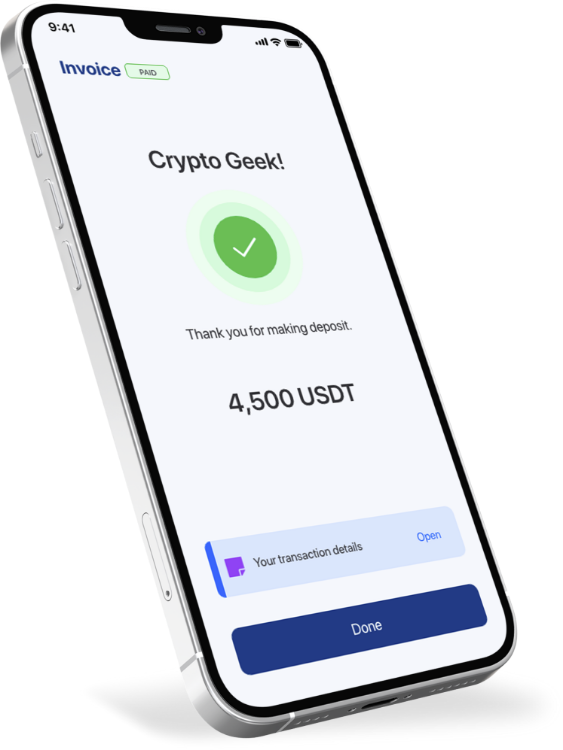
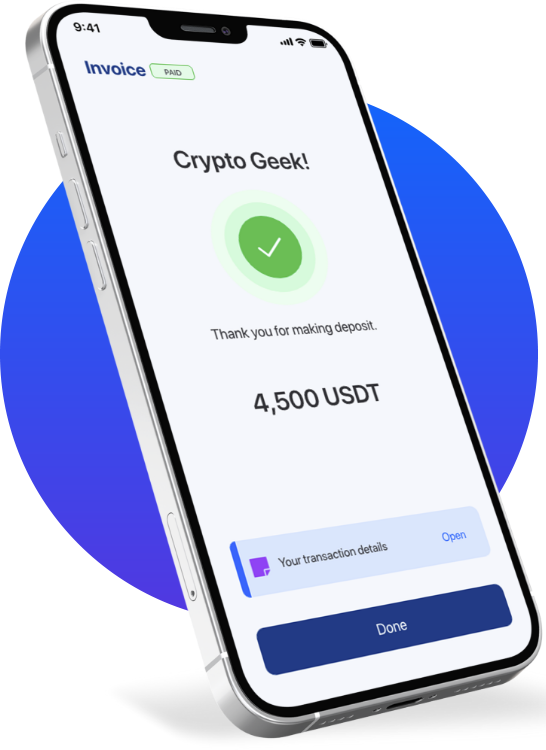
more updates

diff --git a/components/home/HeaderHome.vue b/components/home/HeaderHome.vue
@@ -25,7 +25,10 @@
             <img src="~/assets/img/apple_logo_appstore.svg" alt="Apple Logo" />
             <span> App Store </span>
           </a>
-          <a target="_blank" href="#">
+          <a
+            target="_blank"
+            href="https://play.google.com/store/apps/details?id=com.senexpay.mobile&hl=en&gl=NG"
+          >
             <img
               src="~/assets/img/googleplay_logo_playstore.svg"
               alt="Google Play Logo"
@@ -35,13 +38,16 @@
         </div>
       </div>
       <div data-aos="fade-left" data-aos-once="true" class="header--media">
-        <div class="img--left">
-          <img src="~/assets/img/App_home_screen.png" alt="Home screen image" />
+        <div class="img--set">
+          <img src="~/assets/img/app_screen.png" alt="Home screen image" />
         </div>
-        <div class="img--group-right">
+        <!--        <div class="img&#45;&#45;left">
+          <img src="~/assets/img/phone.png" alt="Home screen image" />
+        </div>
+        <div class="img&#45;&#45;group-right">
           <img src="~/assets/img/dashboard_widget1.png" alt="Dash Widget 1" />
           <img src="~/assets/img/dashboard_widget2.png" alt="Dash Widget 2" />
-          <div class="widget--span">
+          <div class="widget&#45;&#45;span">
             <a href="#">
               <svg
                 id="Layer_1"
@@ -170,7 +176,7 @@
               </svg>
             </a>
           </div>
-        </div>
+        </div>-->
       </div>
     </div>
   </header>
@@ -183,6 +189,16 @@ export default {
 </script>
 
 <style lang="scss">
+.header--media {
+  .img--set {
+    width: 100%;
+    img {
+      width: 100%;
+      height: 100%;
+      object-fit: contain;
+    }
+  }
+}
 .st0 {
   filter: url(#Rectangle_979);
 }

diff --git a/components/NavBar.vue b/components/NavBar.vue
@@ -44,8 +44,12 @@
           </li>
         </ul>
         <div class="icon-dropdown country-con">
-          <div class="country-icon">
-            <img :src="selectedCountry.imageSource" alt="country" />
+          <div class="country-icon" :class="{ active: opened }">
+            <img
+              :src="selectedCountry.imageSource"
+              alt="country"
+              @click="openDropdown"
+            />
             <div
               v-for="c in otherCountries()"
               :key="c.code"
@@ -58,7 +62,7 @@
               />
             </div>
           </div>
-          <span class="caret-icon">
+          <span class="caret-icon" @click="openDropdown">
             <svg
               xmlns="http://www.w3.org/2000/svg"
               width="20.905"
@@ -101,7 +105,8 @@ export default {
   data() {
     return {
       countries,
-      appLink: ''
+      appLink: '',
+      opened: false
     }
   },
   computed: {
@@ -117,6 +122,9 @@ export default {
     this.appLink = process.env.APP_URL
   },
   methods: {
+    openDropdown() {
+      this.opened = !this.opened
+    },
     openSide() {
       this.toggleSideBar()
     },

diff --git a/assets/styles/_media.scss b/assets/styles/_media.scss
@@ -222,6 +222,17 @@
   }
 }
 
+@media  (max-width: 767px) {
+  .bottom--sect .container .meta--img .meta--container .country--bubbles {
+    transform: translateY(-50%) translateX(-25%);
+  }
+}
+
+@media  (max-width: 535px) {
+  .bottom--sect .container .meta--img .meta--container .country--bubbles {
+    left: 20%;
+  }
+}
 @media  (max-width: 450px) {
   header .header--content .header--cto {
     & > * {
@@ -265,6 +276,7 @@
           justify-content: flex-end;
           .country--bubbles{
             left: 5%;
+            transform: translateY(-50%) translateX(-5%);
           }
 
           .grad--circ {
@@ -274,6 +286,18 @@
           }
         }
       }
+    }
+  }
+}
+
+
+@media  (max-width: 400px) {
+  .bottom--sect .container .meta--img .meta--container .country--bubbles {
+    width: 170px;
+  }
+  .getting--crypto .right--card .event--card .card--base h1 {
+    br {
+      display: none;
     }
   }
 }

diff --git a/components/home/GettingCrypto.vue b/components/home/GettingCrypto.vue
@@ -10,7 +10,11 @@
           cryptocurrency? Worry no more! Join other crypto newbies in the weekly
           session with our Crypto experts.
         </p>
-        <a :href="appLink + '/create-account'" class="dash--btn">
+        <a
+          href="https://www.eventbrite.co.uk/e/talk-to-a-crypto-advisor-tickets-319295329927"
+          target="_blank"
+          class="dash--btn"
+        >
           Register for free</a
         >
       </div>
@@ -27,7 +31,7 @@
               <img src="/img/host1.png" alt="" />
             </div>
             <span class="event--time">Every Friday 8:00-9:00 PM </span>
-            <h1>Teaching you the inner <br />windings of the Crypto market.</h1>
+            <h1>Get expert answers to <br />all your crypto questions.</h1>
             <img class="event--coin" src="/img/bit3d.png" alt="bitcoin 3d" />
           </div>
         </div>

diff --git a/pages/index.vue b/pages/index.vue
@@ -165,7 +165,7 @@
             </p>
           </div>
         </div>
-        <div class="flex">
+        <div class="flex items-center">
           <div class="m-auto lg:mr-0 snx-description-img-con">
             <!-- <img src="/img/secure.svg" /> -->
             <svg
@@ -505,13 +505,13 @@ export default {
     //   'https://static.simpu.co/widgets/v1/simpu-widget.js'
     // )
     // document.head.appendChild(simpuJS)
-    /*if (window !== undefined) {
+    /* if (window !== undefined) {
       const widget = window.Simpu.default.init({
         app_id: '1a75fbd8', // spk__U3zut0PukK4JS8kbRrgc41IlKxwiiW9n8Ccd5bdDyPi8o8bK8C
         public_key: 'spk__U3zut0PukK4JS8kbRrgc41IlKxwiiW9n8Ccd5bdDyPi8o8bK8C'
       })
       widget.render()
-    }*/
+    } */
   },
   methods: {
     scrollToCoin() {

diff --git a/components/home/DashboardDesign.vue b/components/home/DashboardDesign.vue
@@ -8,7 +8,10 @@
           dashboard.
         </p>
         <div class="text-center">
-          <a :href="appLink + '/create-account'" class="dash--btn">
+          <a
+            href="https://play.google.com/store/apps/details?id=com.senexpay.mobile&hl=en&gl=NG"
+            class="dash--btn"
+          >
             Get Started</a
           >
         </div>
@@ -83,7 +86,7 @@ a.dash--btn {
   color: #ffffff;
   transition: all 0.3s ease-in-out;
   background: #1265fb;
-  padding: 15px 50px;
+  padding: 12px 24px;
   border-radius: 8px;
   font-size: 1.8rem;
   text-align: center;

diff --git a/assets/styles/components/_navbar.scss b/assets/styles/components/_navbar.scss
@@ -53,7 +53,7 @@ nav.home--nav {
             }
             &.nav-btn {
               background: #1265FB;
-              padding: 15px 50px;
+              padding: 12px 24px;
               border-radius: 8px;
               &:hover {
                 -webkit-background-clip: unset;
@@ -98,7 +98,7 @@ nav.home--nav {
             margin-top: 5px;
           }
         }
-        &:hover .other-countries {
+       &.active .other-countries {
           display: inline-block;
         }
       }

diff --git a/assets/styles/components/home/_header.scss b/assets/styles/components/home/_header.scss
@@ -106,6 +106,8 @@ header {
         height: 65vh;
         width: 80%;
         position: relative;
+        display: flex;
+        justify-content: center;
         .app--screen {
           height: 100%;
           width: 75%;
@@ -129,7 +131,7 @@ header {
           transform: translateY(-50%) translateX(-20%);;
           z-index: 3;
           left: 0;
-          width: 320px;
+          width: 290px;
 
           .bubble {
             width: 100%;

diff --git a/components/home/TrustedExchange.vue b/components/home/TrustedExchange.vue
@@ -16,13 +16,6 @@
           <img
             data-aos="fade-left"
             data-aos-once="true"
-            src="~/assets/img/gradient_circle.svg"
-            class="grad--circ"
-            alt="Gradient Circle"
-          />
-          <img
-            data-aos="fade-left"
-            data-aos-once="true"
             src="~/assets/img/App_screen2.png"
             class="app--screen"
             alt="App screen"

diff --git a/assets/styles/pages/_home.scss b/assets/styles/pages/_home.scss
@@ -380,8 +380,7 @@
     display: flex;
     justify-content: space-between;
     align-items: center;
-    padding-top: 50px;
-    padding-bottom: 50px;
+    padding: 100px 30px;
 
     @include respond(tab-port) {
       flex-direction: column;
@@ -684,6 +683,7 @@
     justify-content: center;
     align-items: center;
     width: 100%;
+    max-height: 400px;
 
     .disappear {
       transition: all .3s;

diff --git a/assets/styles/components/_footer.scss b/assets/styles/components/_footer.scss
@@ -8,8 +8,8 @@
 
   a {
     font-weight: 400;
-    opacity: 0.7;
-    transform: all 0.3s;
+    opacity: .7;
+    transition: all 0.3s ease-in-out;
   }
 
   a:hover {
@@ -128,7 +128,8 @@
       }
 
       &:hover {
-        opacity: 0.5;
+        opacity: 1;
+        filter: brightness(1);
       }
       // opacity: 0.7;
     }
